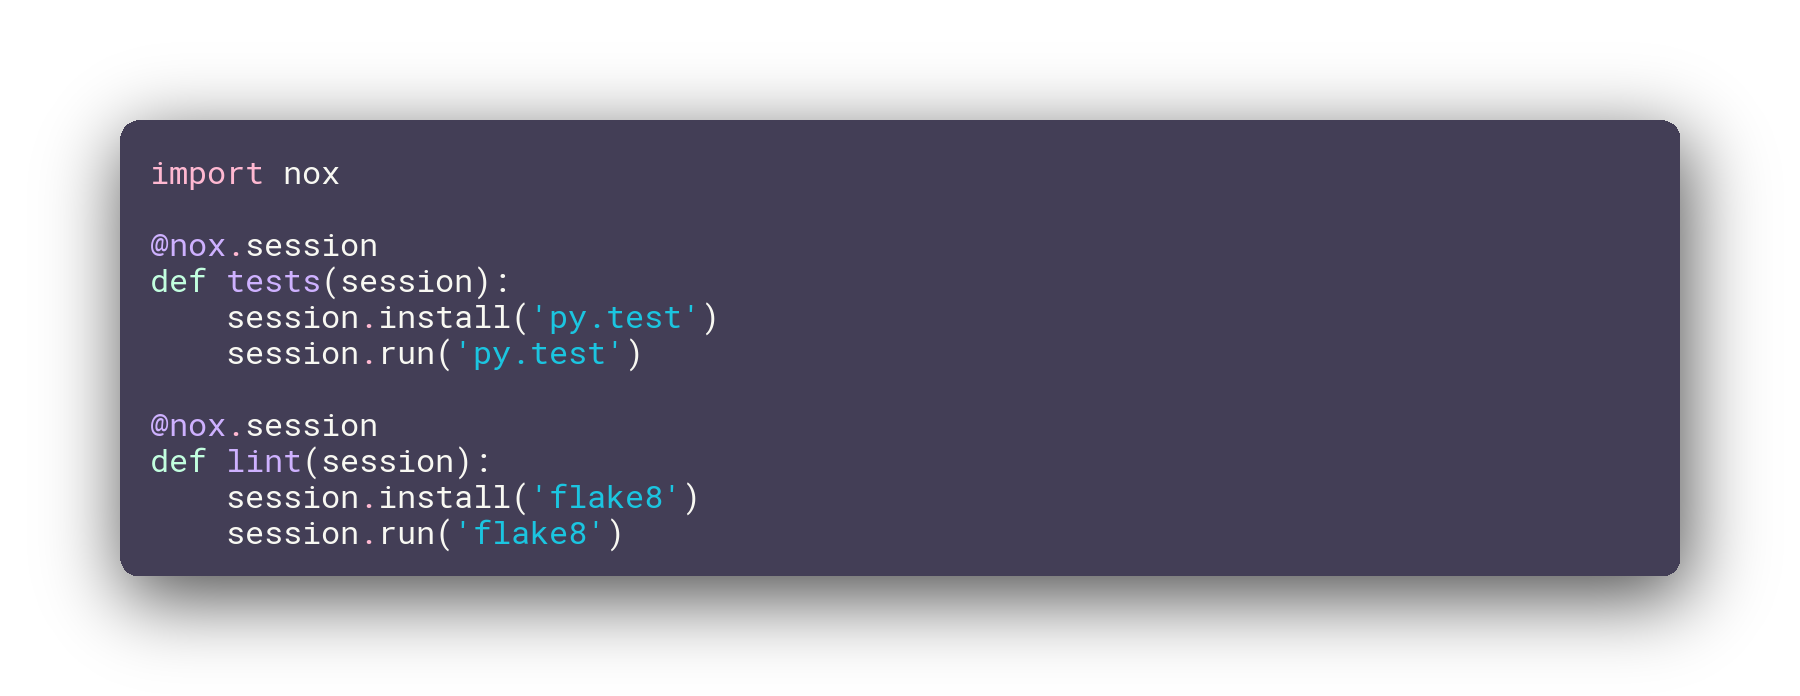
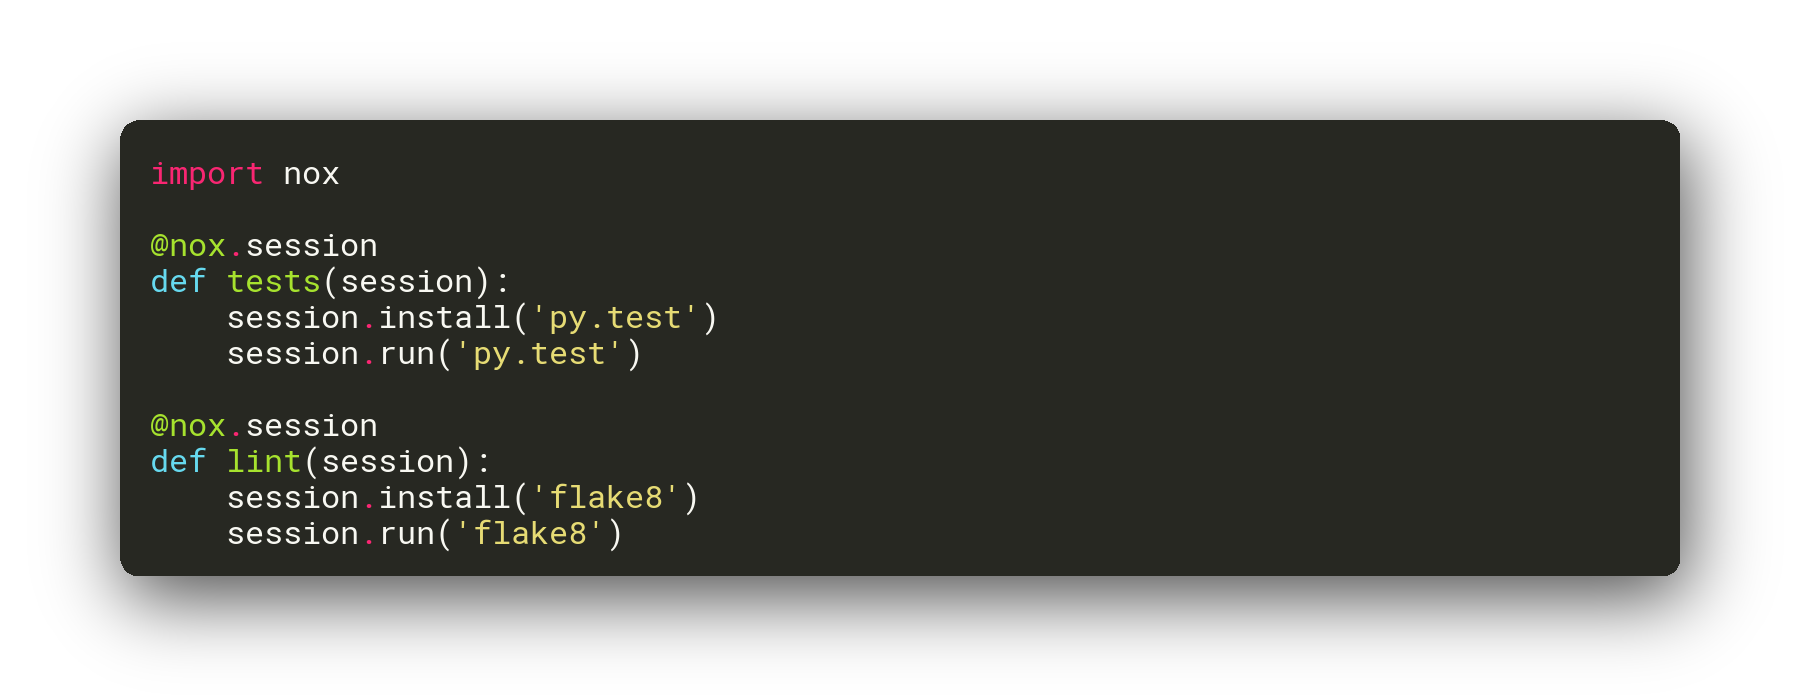
Add ability to specify different pygments themes

diff --git a/wallart/window.py b/wallart/window.py
@@ -13,6 +13,7 @@
 # limitations under the License.
 
 from PIL import Image, ImageDraw
+from pygments.styles import get_style_by_name
 import pygments.formatters.img
 import witchhazel
 
@@ -31,7 +32,16 @@ def _get_minimum_window_width(font_name, font_size):
     return width
 
 
-def draw_window(contents: Image, padding: int = 20) -> Image:
+def draw_window(contents: Image, style: str, padding: int = 20) -> Image:
+    # Figure out the background color
+
+    # https://github.com/theacodes/witchhazel/issues/2
+    if style == "witchhazel":
+        background_color = witchhazel.WitchHazelStyle.background_color
+    else:
+        style_cls = get_style_by_name(style)
+        background_color = style_cls.background_color
+
     # Create a new blank image to draw the window frame and code onto.
     min_width = _get_minimum_window_width("Roboto Mono", font_size=32)
 
@@ -46,7 +56,7 @@ def draw_window(contents: Image, padding: int = 20) -> Image:
         window_img_draw,
         (0, 0, window_img.width, window_img.height),
         radius=20,
-        fill=witchhazel.WitchHazelStyle.background_color)
+        fill=background_color)
 
     # Paste in the generated code image.
     window_img.paste(contents, box=(padding, padding))

diff --git a/wallart/__main__.py b/wallart/__main__.py
@@ -21,15 +21,16 @@ import wallart.window
 @click.command()
 @click.argument("input", type=click.File("r"))
 @click.argument("output", type=click.File("wb"))
-def main(input, output):
+@click.option("--style", help="Which Pygments style to use.", default="witchhazel.WitchHazel")
+def main(input, output, style: str):
     # Read the code file.
     code = input.read()
 
     # Use Pygments to create an image of the code file.
-    code_image = wallart.highlight.highlight(code)
+    code_image = wallart.highlight.highlight(code, style=style)
 
     # Draw the pretty window frame.
-    final_image = wallart.window.draw_window(code_image)
+    final_image = wallart.window.draw_window(code_image, style=style)
 
     final_image.save(output)
 

diff --git a/wallart/highlight.py b/wallart/highlight.py
@@ -21,8 +21,10 @@ import pygments.formatters
 import witchhazel
 
 
-def highlight(code: str) -> Image:
-    style = witchhazel.WitchHazelStyle
+def highlight(code: str, style: str) -> Image:
+    # https://github.com/theacodes/witchhazel/issues/2
+    if style == "witchhazel":
+        style = witchhazel.WitchHazelStyle
 
     formatter = pygments.formatters.ImageFormatter(
         style=style,

diff --git a/RESEARCH.md b/RESEARCH.md
@@ -75,3 +75,15 @@ A drop shadow.
 
 1. Clean up the code, move in to functions and modules. (clean-up / organization)
 2. Make a proper command-line tool that accepts a code file. (organization)
+
+
+# Things we want to be command-line arguments
+
+1. Theme
+2. Font, font size, line spacing
+3. Programming language (autodetect?)
+4. Min/max window size (in columns)
+5. Window padding, window border radius
+6. Drop shadow params?
+7. Line ranges in the file.
+8. Highlight line(s)
